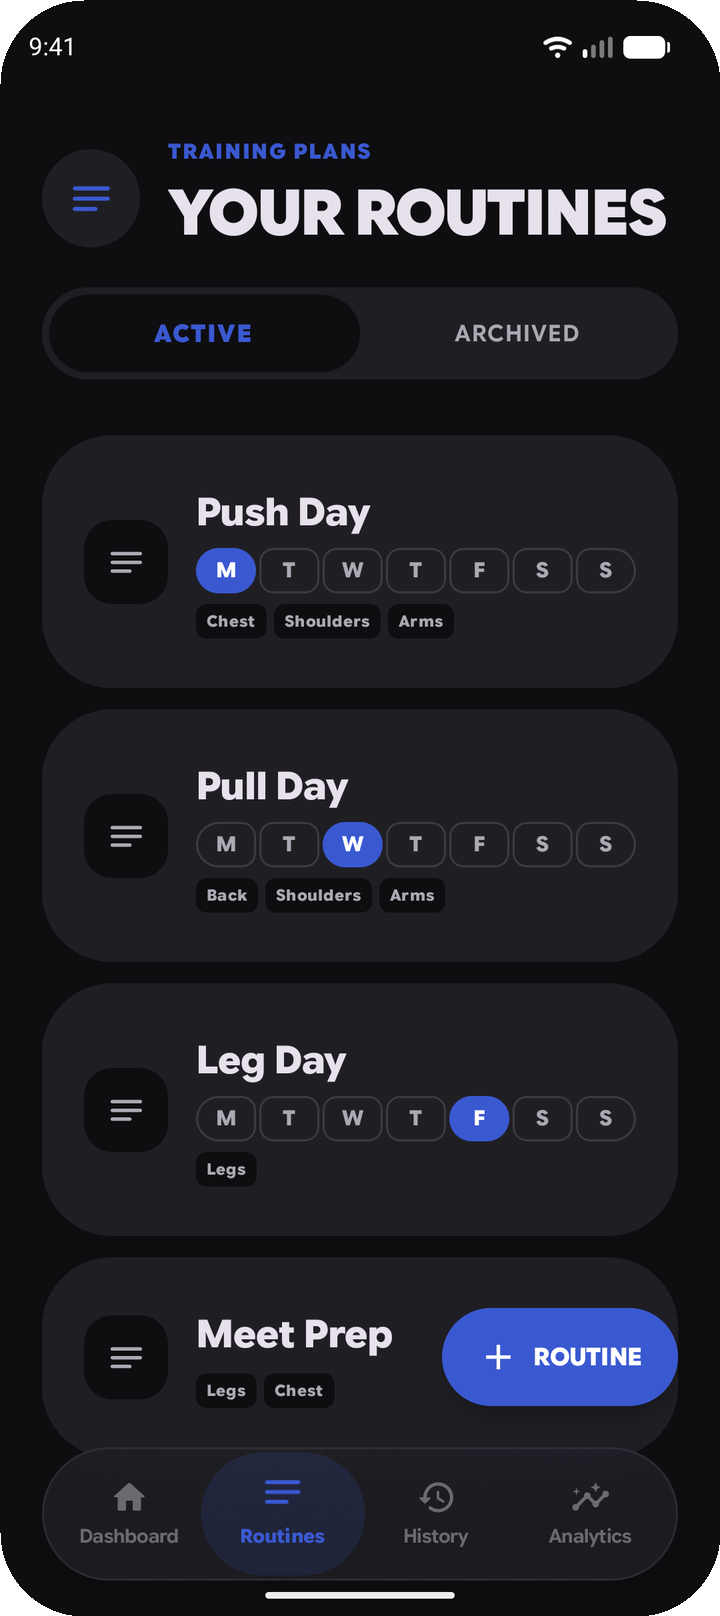
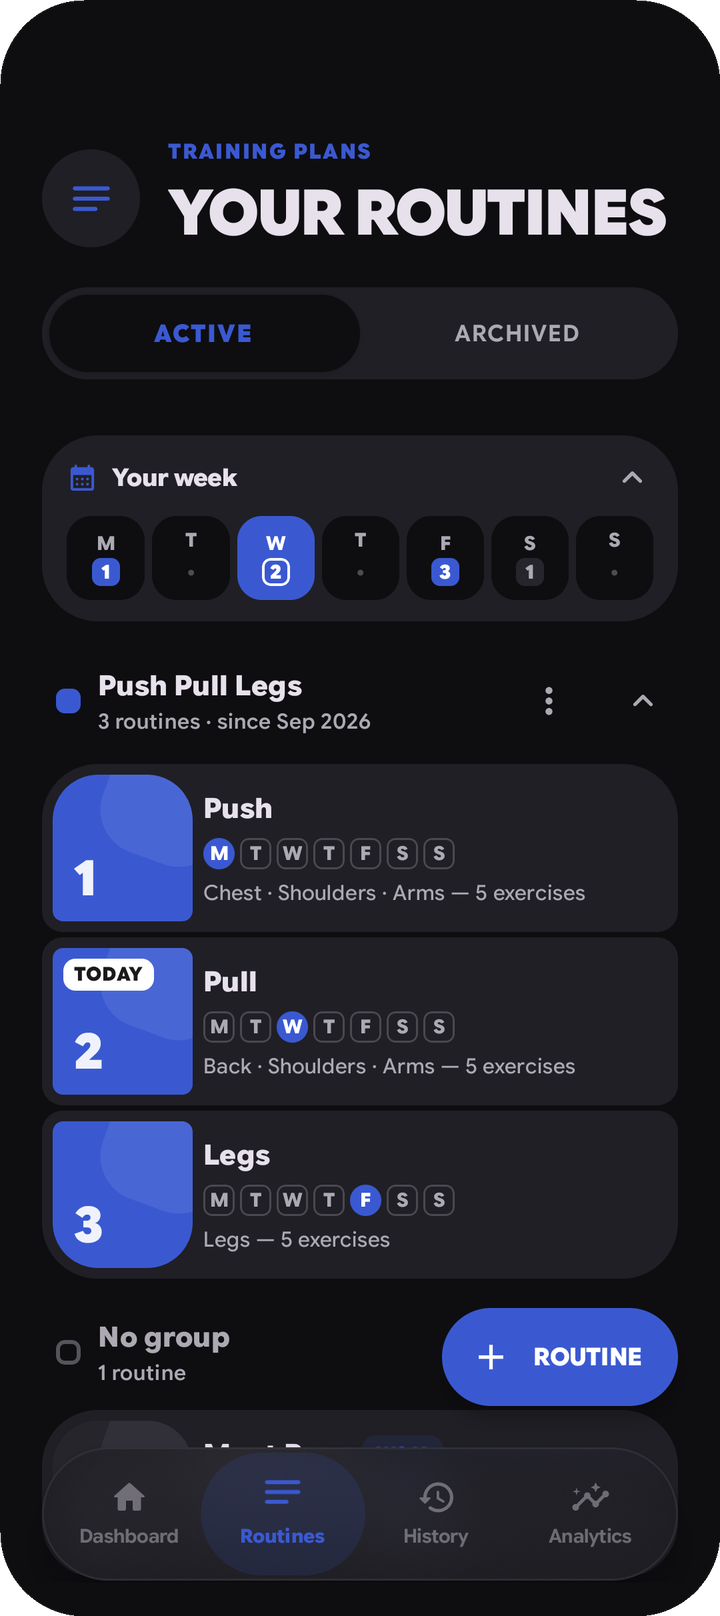
docs: README for 3.0.0 on Android and iPhone, new screenshots

diff --git a/README.md b/README.md
@@ -4,17 +4,20 @@
 
 # Trainable
 
-**A native Android workout tracker for lifters.**
+**A workout tracker for lifters, on Android and iPhone.**
 Plan your routines, log every set and follow your progress. Your data stays on your phone.
 
 [![Release](https://img.shields.io/github/v/release/Emanuel5014/Trainable?label=release)](https://github.com/Emanuel5014/Trainable/releases/latest)
-[![Android](https://img.shields.io/badge/Android-9%2B-3DDC84?logo=android&logoColor=white)](#installation)
+[![Android](https://img.shields.io/badge/Android-9%2B-3DDC84?logo=android&logoColor=white)](#android)
+[![iOS](https://img.shields.io/badge/iOS-17%2B-000000?logo=apple&logoColor=white)](#iphone)
 [![License](https://img.shields.io/github/license/Emanuel5014/Trainable)](LICENSE)
 [![Website](https://img.shields.io/badge/website-trainableapp.vercel.app-3B55D0)](https://trainableapp.vercel.app)
 
-[Download](https://github.com/Emanuel5014/Trainable/releases/latest/download/Trainable.apk) &nbsp;|&nbsp;
+<a href="https://github.com/Emanuel5014/Trainable/releases/latest/download/Trainable.apk"><img src="https://img.shields.io/badge/Download-Android-3DDC84?style=for-the-badge&logo=android&logoColor=white" alt="Download for Android"></a>
+<a href="https://trainableapp.vercel.app/altstore/add/"><img src="https://img.shields.io/badge/Add_to-AltStore-3A59D1?style=for-the-badge&logo=apple&logoColor=white" alt="Add to AltStore"></a>
+
+[Install on iPhone](#iphone) &nbsp;|&nbsp;
 [Features](#features) &nbsp;|&nbsp;
-[Installation](#installation) &nbsp;|&nbsp;
 [Build from source](#build-from-source) &nbsp;|&nbsp;
 [Releases](https://github.com/Emanuel5014/Trainable/releases)
 
@@ -23,72 +26,89 @@ Plan your routines, log every set and follow your progress. Your data stays on y
 <br>
 
 <p align="center">
-  <img src="SCREENS/dashboard.png" width="195" alt="Dashboard">
-  <img src="SCREENS/routines.png" width="195" alt="Routines">
+  <img src="SCREENS/dashboard.png" width="195" alt="Dashboard with a workout in progress">
+  <img src="SCREENS/routines.png" width="195" alt="Routines grouped by program">
   <img src="SCREENS/routine_detail.png" width="195" alt="Routine detail">
   <img src="SCREENS/workout.png" width="195" alt="Workout in progress">
 </p>
 <p align="center">
-  <img src="SCREENS/history.png" width="195" alt="Workout history">
+  <img src="SCREENS/history.png" width="195" alt="Workout history by month">
   <img src="SCREENS/analytics.png" width="195" alt="Analytics">
   <img src="SCREENS/program.png" width="195" alt="Weekly %1RM program">
   <img src="SCREENS/exercise.png" width="195" alt="Exercise records">
 </p>
 <p align="center">
-  <sub>Dashboard, routines, routine detail and a workout in progress. History, analytics, a weekly %1RM program and exercise records.</sub>
+  <sub>Android: the dashboard during a workout, routines grouped by program, a routine and a workout in progress. History by month, analytics, a weekly %1RM program and exercise records.</sub>
+</p>
+
+<p align="center">
+  <img src="SCREENS/ios_dashboard.png" width="195" alt="iPhone dashboard with Liquid Glass">
+  <img src="SCREENS/ios_workout.png" width="195" alt="iPhone workout in progress">
+  <img src="SCREENS/ios_live_activity.png" width="195" alt="Rest timer as a Live Activity">
+  <img src="SCREENS/ios_widgets.png" width="195" alt="Home Screen widgets">
+</p>
+<p align="center">
+  <sub>iPhone, with the optional Liquid Glass theme: the dashboard, a workout, the rest timer as a Live Activity and the Home Screen widgets.</sub>
 </p>
 
 ## Overview
 
-Trainable is a workout tracker built with Jetpack Compose and Material 3 Expressive. It handles a plain push, pull and legs split as well as week-by-week %1RM programs, and it works without an account or an internet connection.
+Trainable is a workout tracker for strength training. It handles a plain push, pull and legs split as well as week-by-week %1RM programs, and it works without an account or an internet connection.
 
-- **Local first.** Everything lives in a Room database on the device. Backups go to a file or to your own Nextcloud.
-- **Simple by default.** Percentage-based programming, techniques and RPE targets sit behind one switch (Settings, Workout, Advanced programming) that is off until you need it.
+- **Android and iPhone.** Since version 3.0 the same app runs on both. The screens and the logic are shared with Kotlin Multiplatform and Compose Multiplatform, so the two versions behave the same and a backup moves between them.
+- **Local first.** Everything lives in a database on the device. Backups go to a file or to your own Nextcloud.
+- **Simple by default.** Percentage-based programming, techniques and RPE targets sit behind one switch (Settings, Workout, Advanced programming) that stays off until you need it.
 - **Scan a paper plan.** Photograph a gym sheet and let an on-device model, or a provider you choose, turn it into a routine.
-- **Your language and units.** English, Italian, Portuguese, German, French and Spanish, in kilograms or pounds.
+- **Your language and units.** English, Italian, Portuguese, German, French and Spanish, in kilograms or pounds and kilometres or miles.
 
 ## Features
 
 ### Training
 
-- **Dashboard.** The routine suggested for today, weekly goal progress, one-tap resume of an interrupted workout and a quick start without a plan.
-- **Routine builder.** More than 140 preset exercises with filters by category, muscle and equipment, plus your own exercises and categories, favorites, supersets, drag-and-drop ordering and scheduling by weekday with start and expiry dates.
-- **Flexible rep schemes.** Fixed sets, per-set lists such as `10-8-6`, rep ranges with double progression, optional starting weights, time-based sets and cardio.
-- **Workout screen.** Large touch targets with wheel pickers, a rest timer with notifications, a warm-up timer, per-set notes, swiping between exercises, adding or swapping exercises mid-workout, a plate calculator and optional RPE on three scales.
+- **Dashboard.** The routine for today, weekly goal progress and a live card while you train: the rest timer, the next set and the sets left. An optional workout mode turns it into a full panel with "Set done" and the exercise list.
+- **Routines and groups.** Group the routines of a program under one name and colour. "Your week" shows the routine of each day, and each routine can have a photo, weekdays, a start date and an expiry date.
+- **Routine builder.** More than 150 preset exercises with filters by category, muscle and equipment, plus your own exercises and categories, favorites, supersets and drag-and-drop ordering.
+- **Flexible rep schemes.** Fixed sets, per-set lists such as `10-8-6`, rep ranges with double progression, optional starting weights, timed sets and cardio linked to its own exercises.
+- **Workout screen.** Large wheel pickers, a rest timer with notifications, a warm-up timer, per-set notes, previous and next with a hold to see the whole workout, adding or swapping exercises, a plate calculator and optional RPE on three scales.
+- **Starting values.** Each set starts from what you did last time in that routine, or from what the routine says, as you prefer.
+- **Machine setup.** Save seat height, backrest angle or pins once and see them above the sets of every workout.
+- **Timed sets that run on their own.** At the target the set is logged, the rest runs and the next timed set starts by itself.
 - **Set detail.** Optional logging of rest-pause parts, assisted and partial reps and the technique actually performed.
-- **Own media.** Attach an image or GIF to any exercise and show it during the workout.
 
 ### Advanced programming
 
-Opt-in. With the switch off, the app behaves like a plain tracker and your programmed data is kept for when you turn it back on.
+Opt-in. With the switch off the app behaves like a plain tracker, and your programmed data is kept for when you turn it back on.
 
 - **Prescriptions as blocks**, for example `70% 5 / 75% 3x5 / 70% 6`, with %1RM, RPE, fixed load or bodyweight intensity.
 - **Every rep mode.** Sets by reps, per-set lists, AMRAP and total-rep targets that add sets until the goal is reached.
 - **Techniques.** Pauses, chains, bands, tempo, deficit, EMOM and custom cues, shown as chips everywhere.
 - **Weekly programs.** Any number of weeks with a prescription per week, skipped weeks, copy from the previous week and automatic week advance after each session.
-- **1RM manager.** Per-exercise maxes with history and source (tested, manual, estimated), an Epley estimate from your logs and a load table rounded to your plate increment.
+- **1RM manager.** Per-exercise maxes with history and source (tested, manual or estimated), an Epley estimate from your logs and a load table rounded to your plate increment.
 - **Edit while training.** Change a prescription in the middle of a workout, for that workout only or for the whole routine.
 
 ### History and analytics
 
-- **History.** Edit past workouts, filter, compare two sessions and share a workout as an image card. An optional journal adds a rating, a note and colored tags to each workout.
-- **Analytics.** Widgets you arrange yourself: workout calendar, body weight, volume by muscle group, total tonnage, 1RM progress and period comparison.
+- **History.** Workouts grouped by month with their volume, a sheet with every set of a workout, and a filter by routine, group or month. Edit past workouts, compare two sessions and share a workout as an image card.
+- **Journal.** An optional rating, note and coloured tags for each workout.
+- **Heart rate (Android).** Average and maximum heart rate, calories and time in each zone from your watch or band, read through Health Connect.
+- **Analytics.** Widgets you pick from a gallery and arrange yourself: workout calendar, body weight, volume by muscle group, total tonnage, 1RM progress and period comparison, each with its own period.
 - **Exercise records.** Per exercise: heaviest set, best estimated 1RM, best session volume and a progress chart.
-- **Reports.** Generate an HTML report of one or more routines with per-exercise history, maximums and, for programs, prescribed versus done by week.
+- **Reports.** An HTML report of one or more routines with per-exercise history, maximums and, for programs, prescribed versus done by week.
 
 ### AI sheet scanner
 
-- **On-device by default.** Google LiteRT-LM running Gemma 4 (E2B or E4B). No account, no API key, no data leaves the phone. Needs a device with roughly 6 GB of RAM.
-- **Or a provider you choose.** Claude, OpenAI, Gemini or any OpenAI-compatible server, such as Ollama or LM Studio on your own PC. Keys are stored encrypted with the Android Keystore and you confirm before a photo is sent to a public service.
-- **Reads real sheets.** Exercise names, sets, reps, rest, cardio, %1RM notation, techniques and multi-week programs, matched against the exercise catalog and shown for review before anything is imported.
+- **On-device by default.** Google LiteRT-LM running Gemma 4. No account, no API key, and no data leaves the phone. Android runs E2B or E4B on devices with about 6 GB of RAM; iPhone runs E2B.
+- **Or a provider you choose.** Claude, OpenAI, Gemini or any OpenAI-compatible server, such as Ollama or LM Studio on your own computer. Keys are stored encrypted, and you confirm before a photo is sent to a public service.
+- **Reads real sheets.** Exercise names, sets, reps and rep ranges, rest, cardio, %1RM notation, techniques and multi-week programs, matched against the exercise catalog. You review everything on top of the photo before anything is imported.
 
 ### Data and integrations
 
-- **Backup and restore.** Local ZIP backups, scheduled automatic backups with WorkManager and optional Nextcloud sync.
-- **CSV.** Export your history, or import one from another app: a full preview, duplicate detection and a one-tap undo.
+- **Backup and restore.** ZIP backups to a file, automatic backups on a schedule and optional Nextcloud sync. A backup made on Android restores on iPhone and the other way round.
+- **CSV.** Export your history, or import one from another app with a full preview, duplicate detection and a one-tap undo.
 - **Routine sharing.** Export and import routines as `.trainableplan` files, photos included.
-- **Local web dashboard.** Start a small Ktor server from Settings and browse your plans, history and analytics from any browser on the same Wi-Fi network.
-- **Widgets.** Quick start or resume, and weekly goal progress, on the home screen.
+- **Widgets.** Routine of the day, weekly goal and a 1x1 quick start on the Android home screen; the same three on the iPhone Home Screen, plus a Lock Screen widget.
+- **Rest timer outside the app.** A notification on Android and a Live Activity on iPhone, with "Set done" and more rest when the rest ends.
+- **Local web dashboard (Android).** Start a small server from Settings and browse your plans, history and analytics from any browser on the same Wi-Fi network.
 
 ### Physical checks
 
@@ -96,73 +116,101 @@ A hidden section for body progress, opened by tapping the logo on the dashboard 
 
 ### Personalization
 
-- Material You dynamic colors, a set of palettes or a custom color, light, dark or system theme.
-- Three navigation bar styles: floating, expressive and classic.
+- **Themes.** Colours from your wallpaper (Android 12 and newer), from a photo, from a preset or from your own colour, with nine styles, three contrast levels, pure black and saved themes. Light, dark or system mode.
+- **Liquid Glass.** An optional glass look for the navigation bar, buttons, sliders and the workout panel, each part with its own switch.
+- **Navigation bar.** Floating, expressive or classic.
 - Gym membership card with expiry alerts, haptic feedback and swipe or long-press interaction styles.
 
 ## Installation
 
+### Android
+
 1. Download [`Trainable.apk`](https://github.com/Emanuel5014/Trainable/releases/latest/download/Trainable.apk) from the latest release.
 2. Open it on your phone and allow installs from that source when asked.
-3. Later versions are announced inside the app, which can download and install the update.
+3. New versions are announced inside the app, which downloads, checks and installs them. In Settings, About you can also choose to receive beta versions.
 
 | Requirement | Detail |
 | :--- | :--- |
-| Android | 9 (API 28) or newer. Wallpaper-based dynamic color needs Android 12 or newer. |
+| Android | 9 (API 28) or newer. Wallpaper colours need Android 12 or newer. |
 | On-device AI | About 6 GB of RAM and at least 3 GB of free storage for the model. Remote providers work on any device. |
+| Heart rate | Health Connect, and a watch or band app that writes heart rate to it. |
+
+### iPhone
+
+Trainable is not on the App Store. It is installed with [AltStore Classic](https://altstore.io), which signs apps with your own Apple ID through AltServer on a Mac or PC.
+
+1. Install AltServer on your computer and AltStore on your iPhone, following the [AltStore guide](https://faq.altstore.io).
+2. On your iPhone, tap the button below. AltStore opens and asks to add the Trainable source.
+
+   <a href="https://trainableapp.vercel.app/altstore/add/"><img src="https://img.shields.io/badge/Add_to-AltStore-3A59D1?style=for-the-badge&logo=apple&logoColor=white" alt="Add to AltStore"></a>
+
+   Or add it by hand: in AltStore open Browse, then Sources, and add `https://trainableapp.vercel.app/altstore/source.json`.
+3. Install Trainable from that source. AltStore offers the new versions when they come out.
+
+You can also download the `.ipa` from the [releases](https://github.com/Emanuel5014/Trainable/releases) (tags starting with `ios-`) and open it with AltStore. With a free Apple ID, AltStore has to refresh the app every 7 days, which it does in the background while AltServer is reachable.
+
+| Requirement | Detail |
+| :--- | :--- |
+| iOS | 17 or newer, on iPhone. |
+| Computer | A Mac or Windows PC running AltServer, on the same Wi-Fi network for the weekly refresh. |
+| On-device AI | A recent iPhone with enough memory for Gemma 4 E2B. Remote providers work on any iPhone. |
 
 ## Build from source
-
-Requirements: a recent Android Studio, the Android SDK platform 37 and JDK 21 (Gradle finds an installed JDK or downloads one).
 
 ```bash
 git clone https://github.com/Emanuel5014/Trainable.git
 cd Trainable
+```
+
+**Android.** Needs a recent Android Studio, the Android SDK platform 37 and JDK 21 (Gradle finds an installed JDK or downloads one).
+
+```bash
 ./gradlew :app:assembleDebug
 ```
 
 The APK is written to `app/build/outputs/apk/debug/`. The debug build uses the application ID `com.emanuel5014.trainable.debug`, so it installs next to the release version without touching its data.
 
+**iPhone.** Needs a Mac with Xcode 27 and JDK 21. Open `iosApp/iosApp.xcodeproj`, choose the `iosApp` scheme and an iPhone or a simulator, and run. A build phase compiles the shared Kotlin code with Gradle, so the first build takes a few minutes. The on-device AI package is fetched with Git LFS, so `git-lfs` has to be installed.
+
 ## Architecture
 
-Clean architecture with MVVM. Dependencies point inwards: the UI knows the view models, the view models know the domain and the repositories, and the domain knows nothing about Android.
+The app is one Kotlin Multiplatform project. Most of the code is shared between Android and iOS, and each platform keeps a thin layer for what only it can do.
 
-| Layer | Contents |
+| Module | Contents |
 | :--- | :--- |
-| UI | Jetpack Compose only, no XML layouts. Type-safe navigation with `@Serializable` routes. |
-| Presentation | Hilt-injected view models exposing `StateFlow`. |
-| Domain | Plain Kotlin logic: prescriptions, suggestions, RPE, EMOM, CSV import planning. |
-| Data | Room (single source of truth), DataStore, WorkManager, the Ktor web server and the on-device AI engine. |
+| `shared` | Domain logic (prescriptions, suggestions, RPE, EMOM, CSV import), the Room database and its migrations, repositories, preferences, backup format and Nextcloud client. |
+| `sharedUi` | Every screen, written once in Compose Multiplatform with Material 3 Expressive: navigation, theme engine, Liquid Glass, onboarding and the view models. |
+| `app` | The Android app: Hilt, WorkManager, notifications, Glance widgets, Health Connect, the local web server, the in-app updater and on-device AI. |
+| `iosApp` | The iOS host in Swift: app lifecycle, Live Activities and WidgetKit widgets, background backup tasks and on-device AI. |
 
 ```
-com/emanuel5014/trainable/
-├── data/        Room database (entities, DAOs), repositories, AI (on-device and remote), HTML reports
-├── domain/      Prescriptions, suggestions, RPE, EMOM, CSV import, exercise rules
-├── di/          Hilt modules
-├── ui/          Screens, components, navigation, theme
-├── util/        Backup, notifications, crypto, locale, sharing, updates
-├── webserver/   Local Ktor server and its foreground service
-└── widget/      Glance widgets
+Trainable/
+├── shared/      Domain, data (Room, DataStore), backup, shared logic for both platforms
+├── sharedUi/    Compose Multiplatform screens, components, navigation and theme
+├── app/         Android application
+└── iosApp/      iOS application (Swift), Live Activities and widgets
 ```
 
 ## Tech stack
 
 | Area | Library |
 | :--- | :--- |
-| Language | Kotlin 2.4 |
-| UI | Jetpack Compose (BOM 2026.09), Material 3 1.5, Haze |
-| Dependency injection | Hilt 2.60 |
-| Database | Room 2.8 with KSP |
+| Language | Kotlin 2.4 (Multiplatform) and Swift |
+| UI | Compose Multiplatform 1.12 with Material 3 Expressive; Jetpack Compose (BOM 2026.09) on Android |
+| Glass and shapes | Kyant Backdrop 2.0, Haze 1.7, androidx graphics-shapes |
+| Themes | MaterialKolor 6 |
+| Database | Room 2.8 (Multiplatform) with KSP and the bundled SQLite driver |
 | Preferences | DataStore 1.2 |
-| Background work | WorkManager 2.12 and foreground services |
+| Dependency injection | Hilt 2.60 (Android) |
+| Background work | WorkManager 2.12 and foreground services (Android), BackgroundTasks (iOS) |
 | Navigation | Navigation Compose 2.9 |
-| Networking | OkHttp 5.5 and Ktor server 3.5 |
+| Networking | Ktor 3.5 and OkHttp 5.5 |
 | Serialization | kotlinx.serialization 1.11 |
-| On-device AI | LiteRT-LM 0.16 (Gemma 4) |
-| Images | Coil 2.7 |
-| Widgets | Glance 1.2 |
+| On-device AI | LiteRT-LM (Gemma 4) |
+| Health | Health Connect 1.1 (Android) |
+| Widgets | Glance 1.2 (Android), WidgetKit and ActivityKit (iOS) |
 | Charts | Custom Compose Canvas drawing |
-| Build | Gradle 9.6 and Android Gradle Plugin 9.4 |
+| Build | Gradle 9.6, Android Gradle Plugin 9.4 and Xcode 27 |
 
 ## Contributing
 
